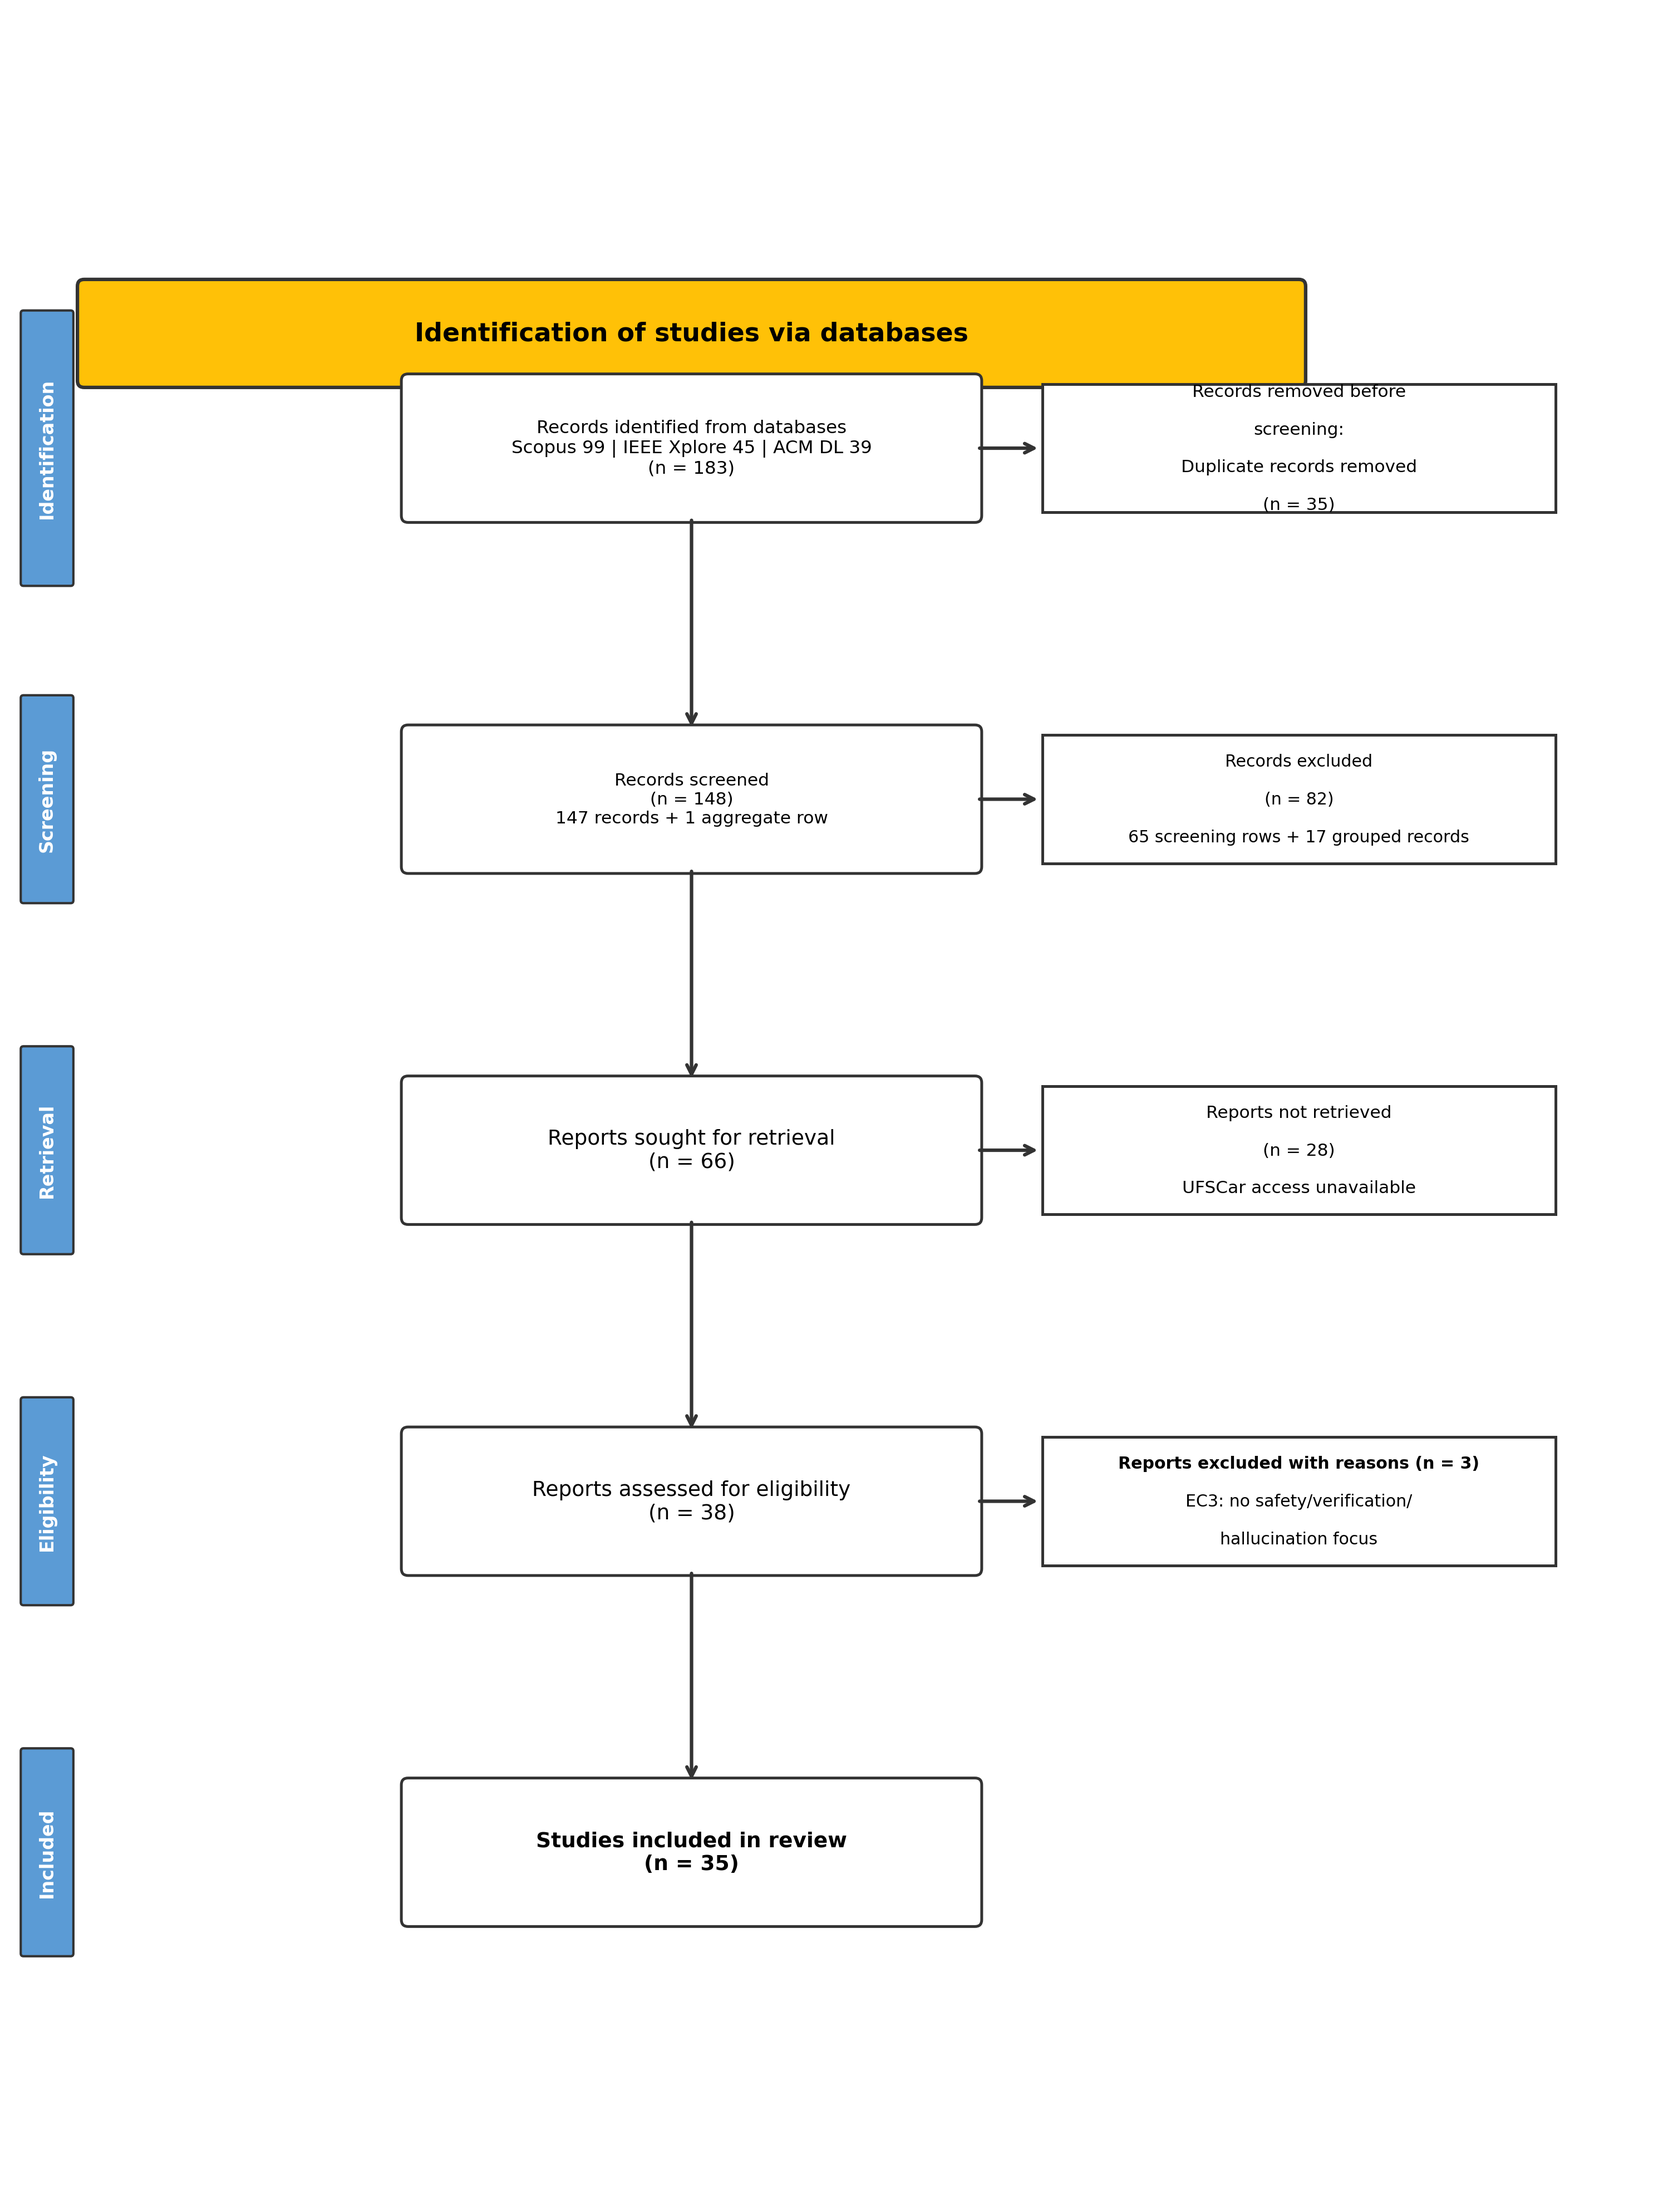
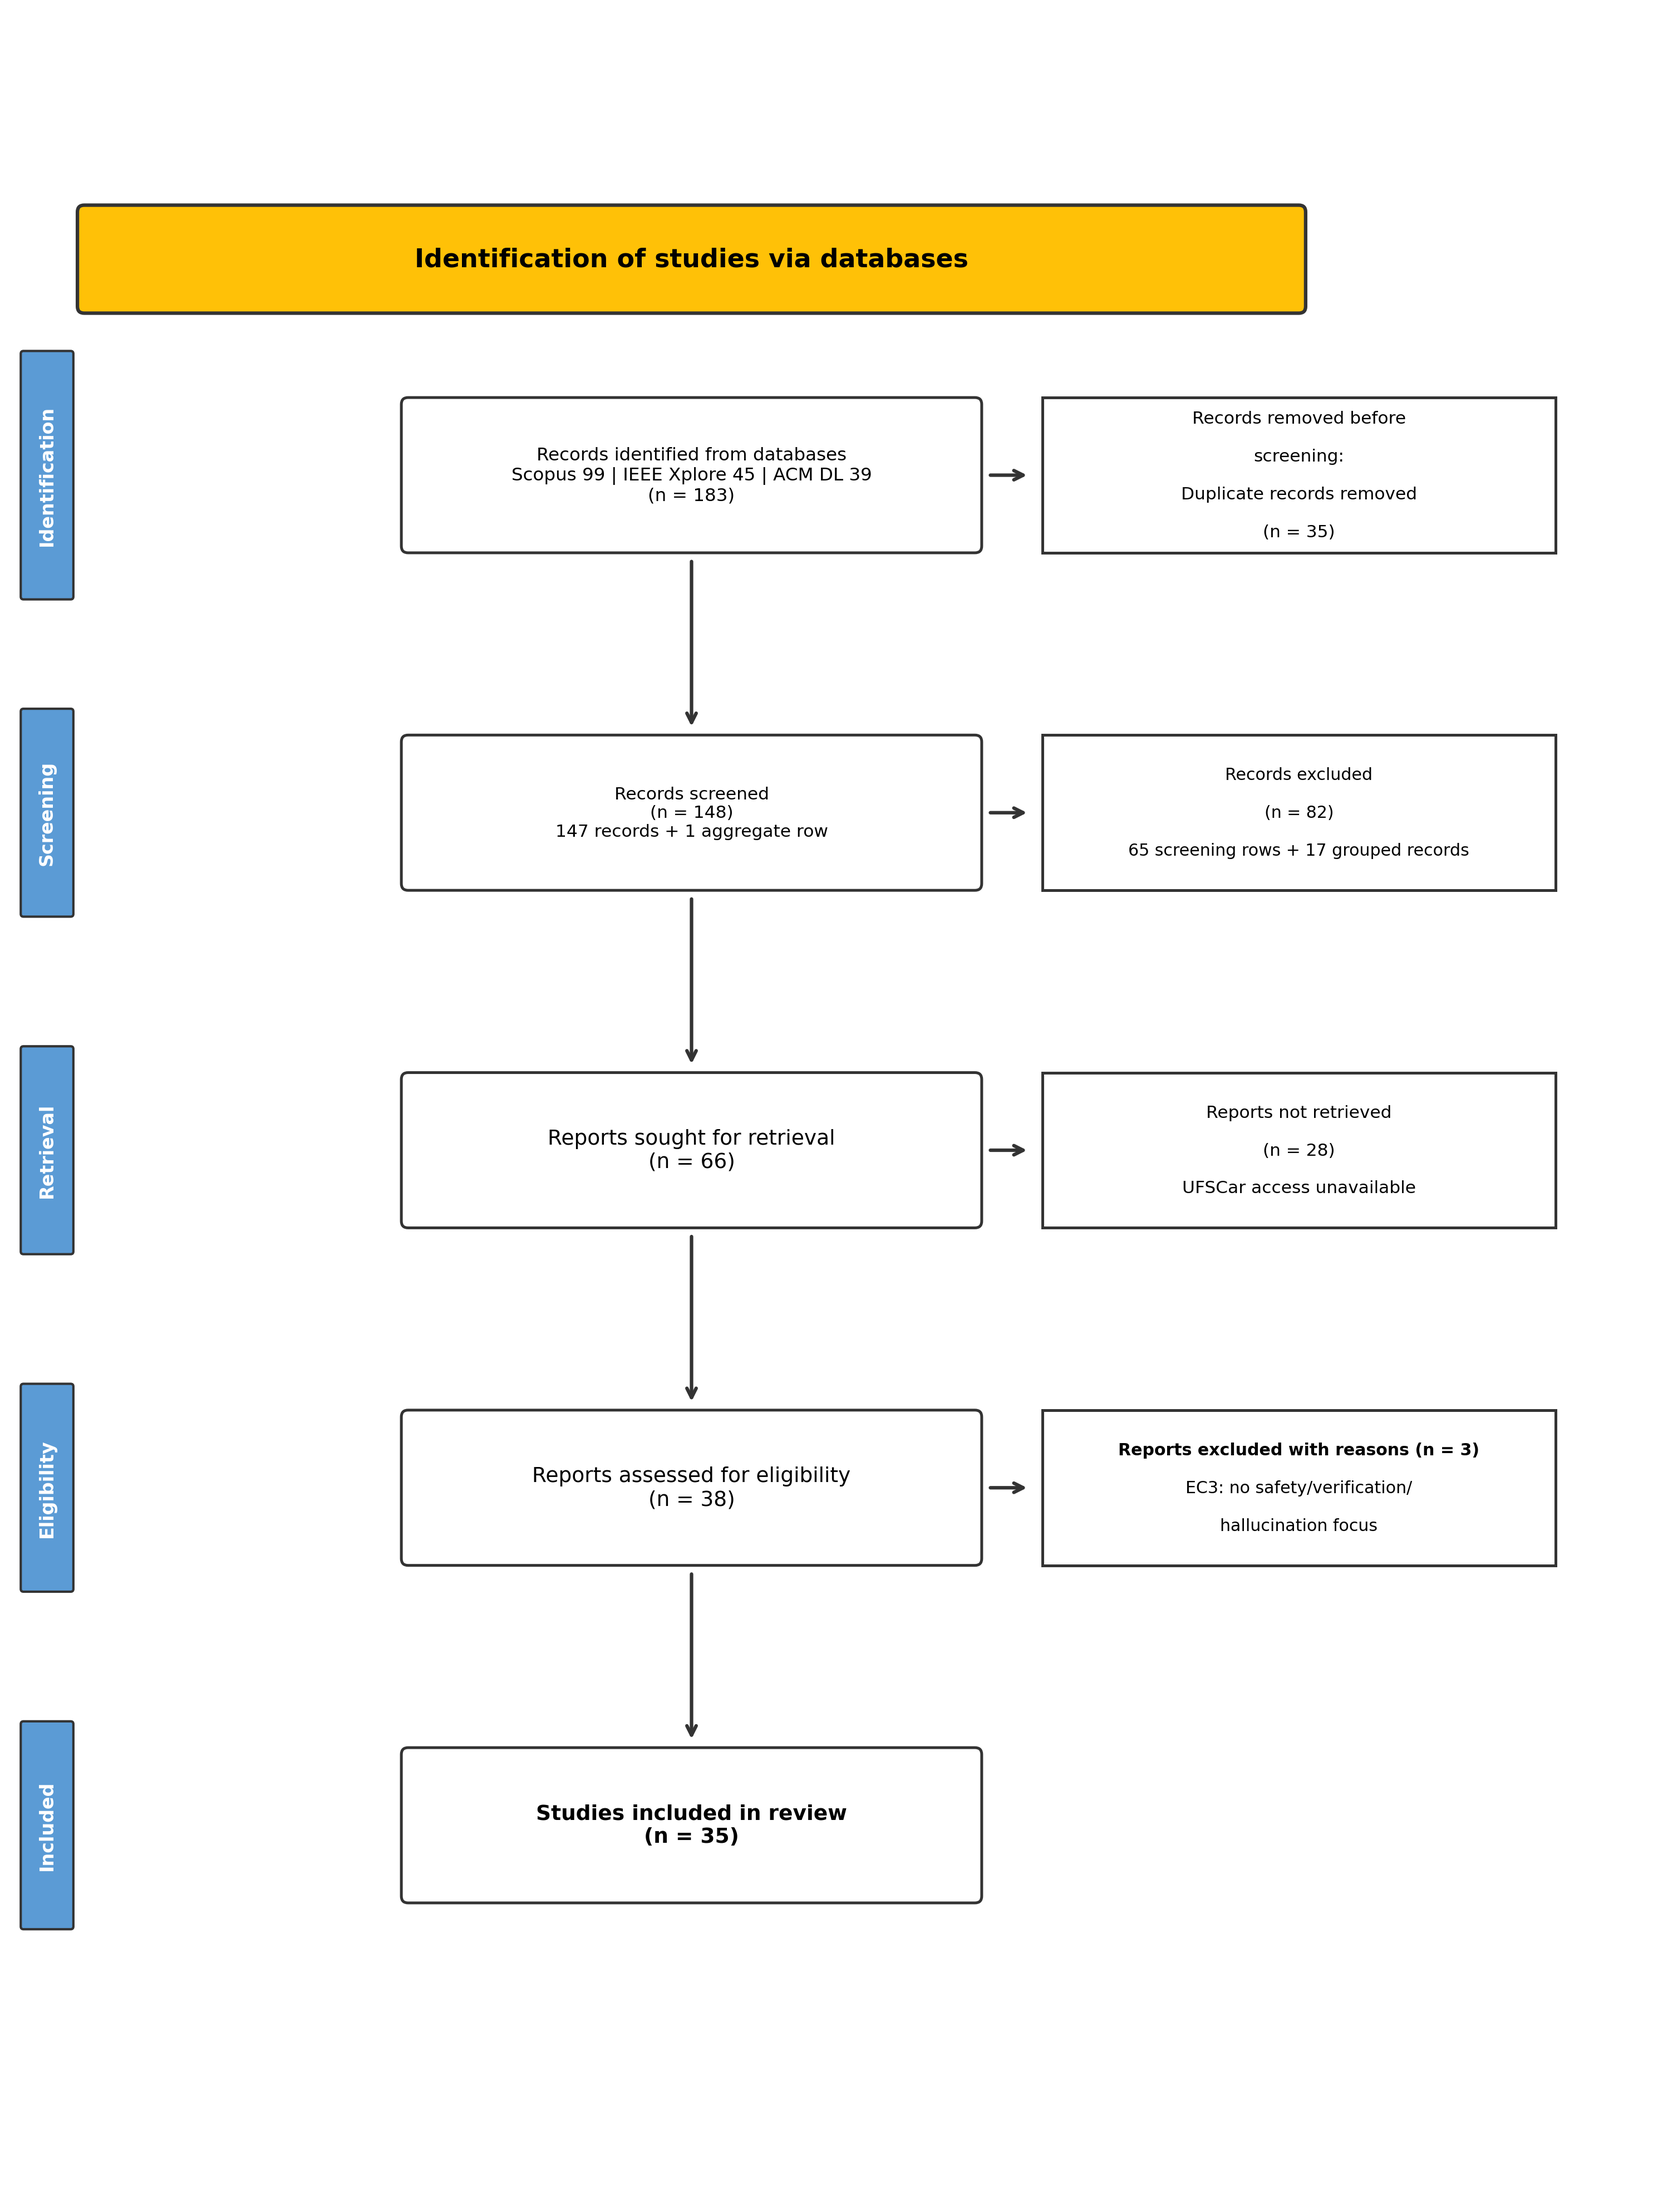
fix PRISMA box geometry

diff --git a/scripts/generate_prisma.py b/scripts/generate_prisma.py
@@ -25,10 +25,17 @@ border_color = '#333333'
 header_color = '#FFC107'
 phase_color = '#5B9BD5'
 box_w = 4.2
-box_h = 1.0
+box_h = 1.05
 excl_w = 3.8
-excl_h = 0.95
+excl_h = 1.15
 excl_x = 9.5
+header_x, header_y, header_w, header_h = 0.5, 14.2, 9.0, 0.7
+phase_gap = 0.08
+id_y, screening_y, retrieval_y, eligibility_y, included_y = 12.6, 10.1, 7.6, 5.1, 2.6
+main_centers = (id_y, screening_y, retrieval_y, eligibility_y, included_y)
+assert header_y - header_h / 2 > id_y + box_h / 2, 'header overlaps identification box'
+assert all(upper - box_h / 2 > lower + box_h / 2 for upper, lower in zip(main_centers, main_centers[1:])), 'main boxes overlap'
+assert excl_x - excl_w / 2 > 5.0 + box_w / 2, 'side boxes overlap main boxes'
 
 def draw_box(cx, cy, w, h, text, bold=False, italic=False, fontsize=9):
     ax.add_patch(patches.FancyBboxPatch((cx - w/2, cy - h/2), w, h,
@@ -49,25 +56,29 @@ def draw_excl(cx, cy, w, h, text_lines, bold_idx=None, fontsize=8):
             fontsize=fontsize, fontweight=fw)
 
 def arrow_down(x, y1, y2):
+    if y1 <= y2:
+        raise ValueError('downward arrow endpoints must be ordered from top to bottom')
     ax.annotate('', xy=(x, y2), xytext=(x, y1),
         arrowprops=dict(arrowstyle='->', color=border_color, lw=1.5))
 
 def arrow_right(x_tail, y, x_head):
+    if x_tail >= x_head:
+        raise ValueError('rightward arrow endpoints must be ordered left to right')
     ax.annotate('', xy=(x_head, y), xytext=(x_tail, y),
         arrowprops=dict(arrowstyle='->', color=border_color, lw=1.5))
 # === HEADER ===
-ax.add_patch(patches.FancyBboxPatch((0.5, 13.3), 9, 0.7,
+ax.add_patch(patches.FancyBboxPatch((header_x, header_y - header_h / 2), header_w, header_h,
     boxstyle="round,pad=0.05", facecolor=header_color, edgecolor=border_color, linewidth=1.5))
-ax.text(5, 13.65, 'Identification of studies via databases',
+ax.text(header_x + header_w / 2, header_y, 'Identification of studies via databases',
     ha='center', va='center', fontsize=11, fontweight='bold')
 
 # === PHASE LABELS ===
 phase_data = [
-    ('Identification', 12.8, 2.0),
-    ('Screening', 10.2, 1.5),
-    ('Retrieval', 7.6, 1.5),
-    ('Eligibility', 5.0, 1.5),
-    ('Included', 2.4, 1.5),
+    ('Identification', id_y, 1.8),
+    ('Screening', screening_y, 1.5),
+    ('Retrieval', retrieval_y, 1.5),
+    ('Eligibility', eligibility_y, 1.5),
+    ('Included', included_y, 1.5),
 ]
 for label, cy, h in phase_data:
     ax.add_patch(patches.FancyBboxPatch((0.05, cy - h/2), 0.35, h,
@@ -76,43 +87,44 @@ for label, cy, h in phase_data:
         fontsize=8, fontweight='bold', color='white', rotation=90)
 
 # === IDENTIFICATION ===
-draw_box(5.0, 12.8, box_w, box_h,
+draw_box(5.0, id_y, box_w, box_h,
     f'Records identified from databases\nScopus 99 | IEEE Xplore 45 | ACM DL 39\n(n = {FLOW["identified"]})', fontsize=7.8)
-draw_excl(excl_x, 12.8, excl_w, excl_h,
+draw_excl(excl_x, id_y, excl_w, excl_h,
     ['Records removed before', 'screening:', 'Duplicate records removed', f'(n = {FLOW["duplicates"]})'],
     bold_idx=None, fontsize=7.5)
-arrow_right(5.0 + box_w/2, 12.8, excl_x - excl_w/2)
+arrow_right(5.0 + box_w/2 + phase_gap, id_y, excl_x - excl_w/2 - phase_gap)
 
 # === SCREENING ===
-draw_box(5.0, 10.2, box_w, box_h,
+draw_box(5.0, screening_y, box_w, box_h,
     f'Records screened\n(n = {FLOW["screened"]})\n147 records + 1 aggregate row', fontsize=7.5)
-draw_excl(excl_x, 10.2, excl_w, excl_h,
+draw_excl(excl_x, screening_y, excl_w, excl_h,
     ['Records excluded', f'(n = {FLOW["screening_excluded"]})',
      f'{FLOW["screening_nonincluded_rows"]} screening rows + {FLOW["grouped_proceedings"]} grouped records'], fontsize=7.2)
-arrow_right(5.0 + box_w/2, 10.2, excl_x - excl_w/2)
+arrow_right(5.0 + box_w/2 + phase_gap, screening_y, excl_x - excl_w/2 - phase_gap)
 
 # === RETRIEVAL ===
-draw_box(5.0, 7.6, box_w, box_h, f'Reports sought for retrieval\n(n = {FLOW["retrieval_sought"]})')
-draw_excl(excl_x, 7.6, excl_w, excl_h,
+draw_box(5.0, retrieval_y, box_w, box_h, f'Reports sought for retrieval\n(n = {FLOW["retrieval_sought"]})')
+draw_excl(excl_x, retrieval_y, excl_w, excl_h,
     ['Reports not retrieved', f'(n = {FLOW["not_retrieved"]})', 'UFSCar access unavailable'], fontsize=7.5)
-arrow_right(5.0 + box_w/2, 7.6, excl_x - excl_w/2)
+arrow_right(5.0 + box_w/2 + phase_gap, retrieval_y, excl_x - excl_w/2 - phase_gap)
 
 # === ELIGIBILITY ===
-draw_box(5.0, 5.0, box_w, box_h, f'Reports assessed for eligibility\n(n = {FLOW["assessed"]})')
-draw_excl(excl_x, 5.0, excl_w, excl_h,
+draw_box(5.0, eligibility_y, box_w, box_h, f'Reports assessed for eligibility\n(n = {FLOW["assessed"]})')
+draw_excl(excl_x, eligibility_y, excl_w, excl_h,
     [f'Reports excluded with reasons (n = {FLOW["full_text_excluded"]})',
      'EC3: no safety/verification/', 'hallucination focus'],
     bold_idx=0, fontsize=7.2)
-arrow_right(5.0 + box_w/2, 5.0, excl_x - excl_w/2)
+arrow_right(5.0 + box_w/2 + phase_gap, eligibility_y, excl_x - excl_w/2 - phase_gap)
 
 # === INCLUDED ===
-draw_box(5.0, 2.4, box_w, box_h, f'Studies included in review\n(n = {FLOW["included"]})', bold=True)
+draw_box(5.0, included_y, box_w, box_h, f'Studies included in review\n(n = {FLOW["included"]})', bold=True)
 
 # === ARROWS DOWN ===
-arrow_down(5.0, 12.8 - box_h/2, 10.2 + box_h/2)
-arrow_down(5.0, 10.2 - box_h/2, 7.6 + box_h/2)
-arrow_down(5.0, 7.6 - box_h/2, 5.0 + box_h/2)
-arrow_down(5.0, 5.0 - box_h/2, 2.4 + box_h/2)
+# Endpoints stop short of both boxes so no arrowhead touches a border.
+arrow_down(5.0, id_y - box_h/2 - phase_gap, screening_y + box_h/2 + phase_gap)
+arrow_down(5.0, screening_y - box_h/2 - phase_gap, retrieval_y + box_h/2 + phase_gap)
+arrow_down(5.0, retrieval_y - box_h/2 - phase_gap, eligibility_y + box_h/2 + phase_gap)
+arrow_down(5.0, eligibility_y - box_h/2 - phase_gap, included_y + box_h/2 + phase_gap)
 
 plt.tight_layout()
 OUT.mkdir(parents=True, exist_ok=True)
